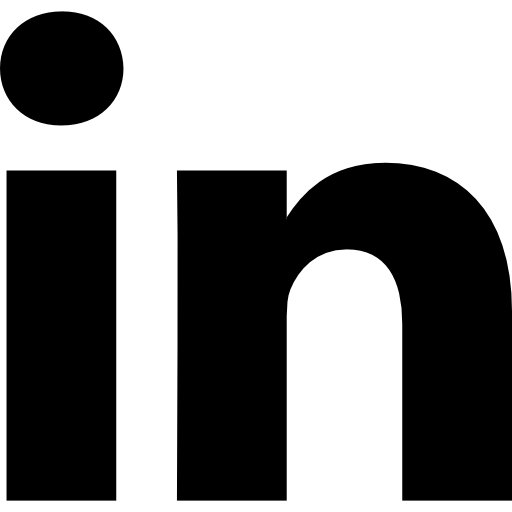
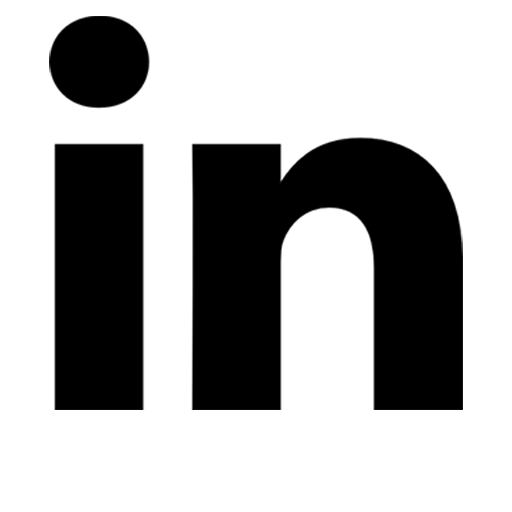
styling update

diff --git a/main.css b/main.css
@@ -44,7 +44,7 @@ nav li {
 }
 
 body {
-	/*background-color: #EBEBEB !important;*/
+	background-color: #EBEBEB !important;
 }
 
 /*this is for the icons at the bottoms*/
@@ -113,12 +113,28 @@ li
 	background-color: #EBEBEB;
 }
 
-
-.uncharted{
-	background: url(http://images.techtimes.com/data/images/full/236964/uncharted-4-a-thiefs-end.jpg) no-repeat;
-	background-size: cover;
+.work-parent{
 	height: 400px;
+	width: 550px;
+	overflow: hidden;
+}
+.uncharted{
+	background-image: url(http://images.techtimes.com/data/images/full/236964/uncharted-4-a-thiefs-end.jpg);
+	background-size: cover;
+	  background-position: center;
+	  width: 100%;
+  height: 100%;
+  transition: all .5s;
+
 	}	
+.work-parent:hover .uncharted,
+.work-parent:focus .uncharted,
+.work-parent:hover .wordplay,
+.work-parent:focus .wordplay
+  {
+  transform: scale(1.2);
+}
+
 
 .uncharted:hover:before{
 	background: rgba(255,255,255,.5);
@@ -135,10 +151,11 @@ li
 }
 
 .wordplay{
-	background: url(Photos/wordPlaySite.png) 
-	no-repeat;
+	background-image: url(Photos/wordPlaySite.png);
 	background-size: cover;
-	height: 400px;
+	  width: 100%;
+	  height: 100%;
+	  transition: all .5s;
 }	
 
 .wordplay:hover:before{
@@ -227,3 +244,46 @@ li
 	color: black;
 	font-size: 12px;
 }
+
+#twitter{
+  display: inline-block;
+  background:  url(Photos/twitter.png) 0 0 no-repeat ;
+  height: 50px;
+  width: 50px;
+  background-size: cover;
+}
+#twitter:hover, #mail:hover, #linkedin:hover{
+  opacity: .5;
+  text-decoration: none;
+}
+#mail{
+  display: inline-block;
+background: url(Photos/email.png) 0 0 no-repeat ;
+  height: 50px;
+  width: 50px;
+    background-size: cover;
+
+}
+
+#linkedin{
+  display: inline-block;
+  background: url(Photos/linkedin.png) 0 0 no-repeat ;
+  height: 50px;
+  width: 50px;
+    background-size: cover;
+
+}
+.social{
+  display: inline; 
+  margin: 0px 10px;
+}
+.social-icons{
+  margin: 0 auto;
+}
+.social a{
+  text-decoration: none;
+}
+.social a:hover{
+  text-decoration: none;
+}
+

diff --git a/index.html b/index.html
@@ -3,6 +3,7 @@
 	<head>
 		<title>Zachary Shepherd</title>
 		<link rel="stylesheet" type="text/css" href="main.css"/>
+		<link rel="stylesheet" type="text/css" href="reset.css"/>
 		<link rel="stylesheet" href="https://maxcdn.bootstrapcdn.com/bootstrap/3.3.6/css/bootstrap.min.css"/>
 		<link href="https://fonts.googleapis.com/css?family=Hind:300" rel="stylesheet">
 		<link rel="icon" href="favicon.ico" type="image/x-icon"/>
@@ -30,14 +31,19 @@
 		 	<div class="row">
 			    <figure class="col-sm-6">
 			    <a class="noLinkLine" href="/uncharted4">
+			    	<div class="work-parent">
 				    <div class="uncharted">		    	
 				    </div>
+
+			    </div>
 			    </a>
 			    </figure>
 			    
 			    <figure class="col-sm-6">
 			    <a class="noLinkLine" href="/wordplay">
+			    	<div class="work-parent">
 				    <div class="wordplay">		    
+			   		</div>
 			   		</div>
 			    </a>			    	
 			    </figure>
@@ -46,25 +52,45 @@
 		</section>
 
 		<div class="footer">
-			<ul class="col-sm-8">
-				<li class ="col-sm-7">
-				</li>
-			 	<li class="col-sm-1">
+
+			<ul class="social-icons">
+
+			
+
+			
+
+			 	<li class="social">
+
 			 		<a href="https://twitter.com/zshep427">
-			 		<img src="Photos/twitter.png" style="height: 30px; width: 30px"/> 
+
+			 		<div id="twitter"></div>
+
 			 		</a>
+
 			 	</li>
-			  	<li class="col-sm-1">
+
+			  	<li class="social">
+
 			  		<a href="mailto:zachpshepherd@gmail.com">
-			  		<img src="Photos/email.png" style="height: 30px; width: 30px"/>	  		
+
+			  		<div id="mail"></div>	
+
 			  		</a>
+
 			  	</li>
-			  	<li class="col-sm-1">
+
+			  	<li class="social">
+
 			  		<a href="https://www.linkedin.com/in/zachary-shepherd-615b0246?trk=hp-identity-photo"> 
-			  		<img src="Photos/linkedin.png" style="height: 30px; width: 30px"/>
+
+			  		<div id="linkedin"></div>
+
 			  		</a>		
+
 			  	</li>
+
 			</ul>
+
 		</div>
 	</div>
 	</body>

diff --git a/reset.css b/reset.css
@@ -1,0 +1,48 @@
+/* http://meyerweb.com/eric/tools/css/reset/ 
+   v2.0 | 20110126
+   License: none (public domain)
+*/
+
+html, body, div, span, applet, object, iframe,
+h1, h2, h3, h4, h5, h6, p, blockquote, pre,
+a, abbr, acronym, address, big, cite, code,
+del, dfn, em, img, ins, kbd, q, s, samp,
+small, strike, strong, sub, sup, tt, var,
+b, u, i, center,
+dl, dt, dd, ol, ul, li,
+fieldset, form, label, legend,
+table, caption, tbody, tfoot, thead, tr, th, td,
+article, aside, canvas, details, embed, 
+figure, figcaption, footer, header, hgroup, 
+menu, nav, output, ruby, section, summary,
+time, mark, audio, video {
+	margin: 0;
+	padding: 0;
+	border: 0;
+	font-size: 100%;
+	font: inherit;
+	vertical-align: baseline;
+}
+/* HTML5 display-role reset for older browsers */
+article, aside, details, figcaption, figure, 
+footer, header, hgroup, menu, nav, section {
+	display: block;
+}
+body {
+	line-height: 1;
+}
+ol, ul {
+	list-style: none;
+}
+blockquote, q {
+	quotes: none;
+}
+blockquote:before, blockquote:after,
+q:before, q:after {
+	content: '';
+	content: none;
+}
+table {
+	border-collapse: collapse;
+	border-spacing: 0;
+}
